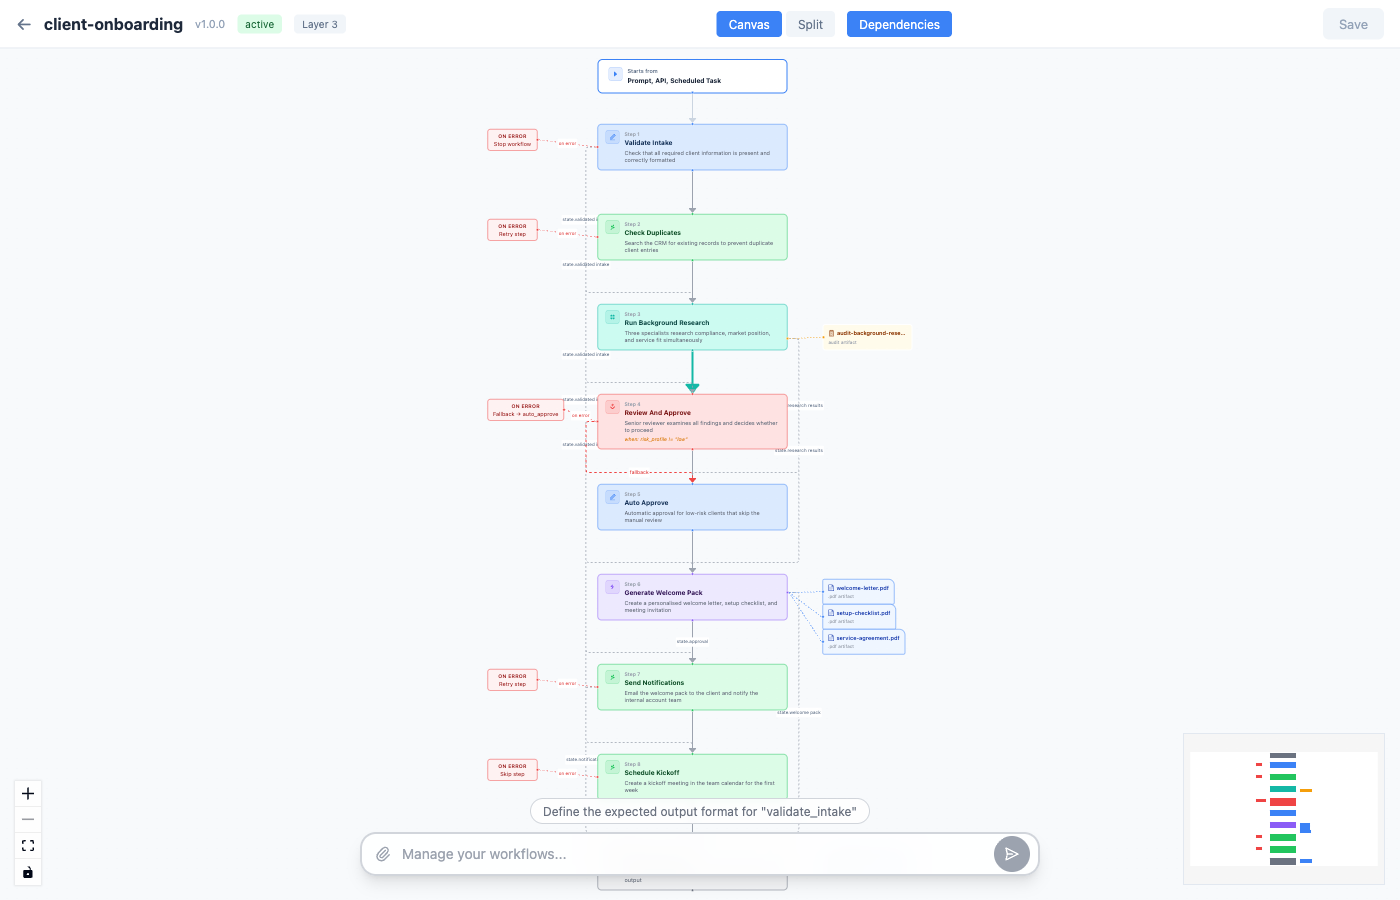
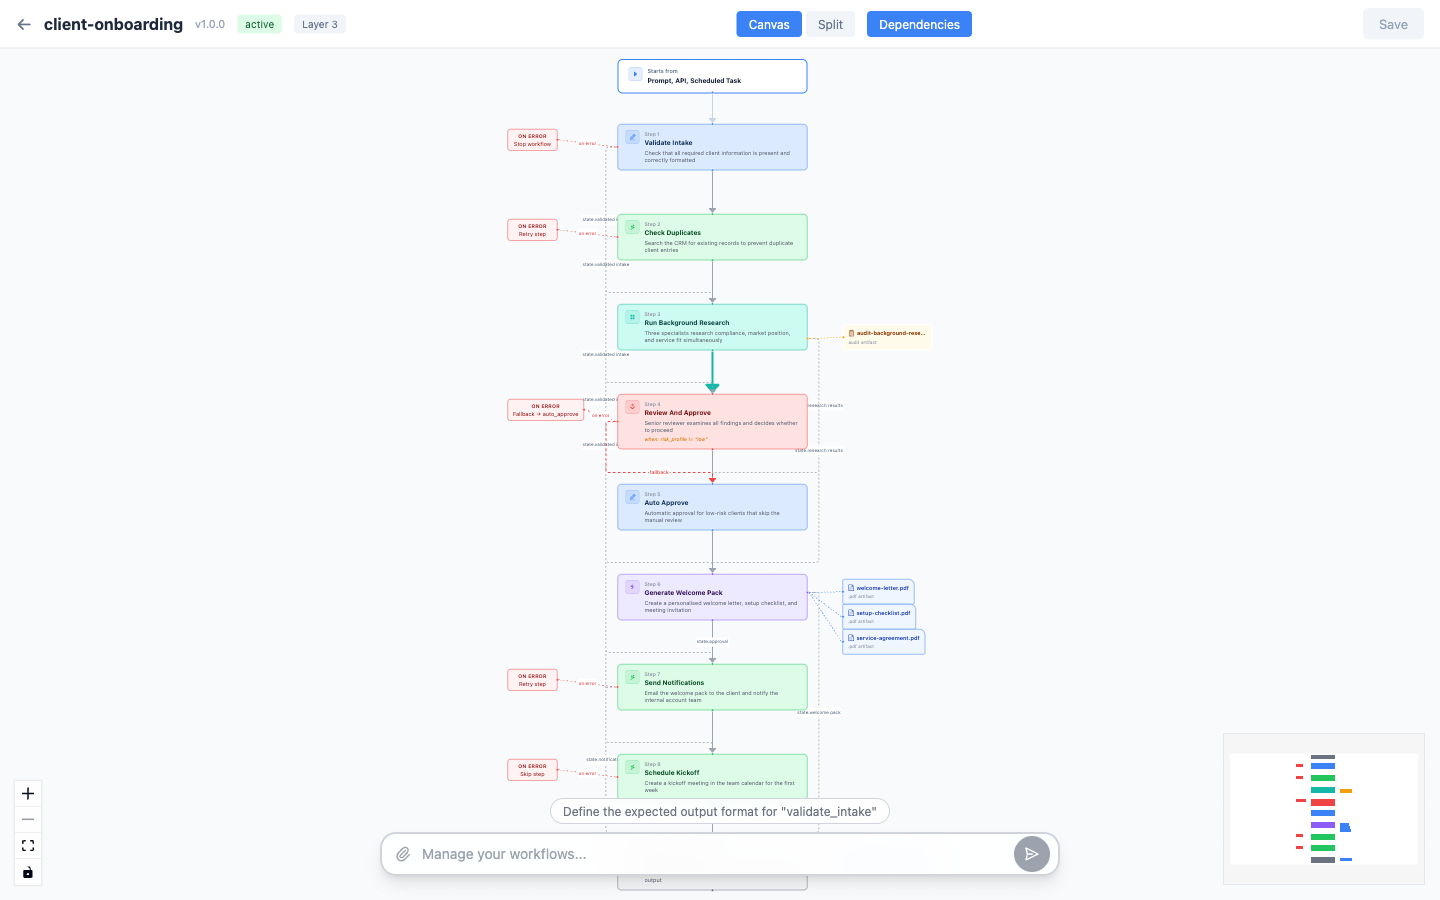
docs: refresh all screenshots and restructure README as business-first UI guide
Update all 17 screenshots from current Sasha Studio build. Restructure
README to lead with the visual editor guide — canvas, inspectors,
dependencies, split view, chat bar — before the specification details.

diff --git a/README.md b/README.md
@@ -1,16 +1,16 @@
 # Agent Flow
 
-**A layered specification for agentic AI workflows.**
+**Design AI workflows visually. Edit them conversationally. Run them with enterprise controls.**
 
-Structure tames LLM non-determinism. Agent Flow defines *what* happens, *when* it proceeds, and *who* does the work — while leaving the LLM free to reason creatively within each step's boundaries.
+Agent Flow is a layered specification for agentic AI workflows. It defines *what* happens, *when* it proceeds, and *who* does the work — while leaving the AI free to reason creatively within each step's boundaries.
 
-## The Problem
+The visual editor in [Sasha Studio](https://github.com/context-is-everything/sasha-ai-knowledge-management) makes the full specification accessible to anyone. Read a process as a graph, change it by typing a sentence.
 
-LLMs are non-deterministic by nature — the same prompt can produce different outputs every time. This is their strength (creativity, reasoning, adaptation) and their weakness (unpredictability, inconsistency, hallucination).
+![Visual workflow editor — full client-onboarding workflow with 9 steps, artifacts, and error handlers](docs/screenshots/workflow-editor-canvas.png)
 
-Current approaches either ignore this or try to force determinism, losing what makes LLMs valuable.
+## Why Agent Flow
 
-## The Solution
+LLMs are non-deterministic — the same prompt can produce different outputs every time. This is their strength (creativity, reasoning, adaptation) and their weakness (unpredictability, inconsistency, hallucination).
 
 Agent Flow applies **structural guardrails** around non-deterministic steps:
 
@@ -22,7 +22,7 @@ Agent Flow applies **structural guardrails** around non-deterministic steps:
 | **Agents** | Role, tools, output format | How the agent fulfills its role |
 | **Audit** | What gets logged, reason codes | — (fully deterministic) |
 
-## Design Principles
+### Design Principles
 
 1. **Business-friendly first** — A product manager can read and modify a workflow without engineering help
 2. **Markdown-native** — Plain text files, version-controlled, diffable, no special tooling required
@@ -31,7 +31,136 @@ Agent Flow applies **structural guardrails** around non-deterministic steps:
 5. **Observable by default** — Every run produces a verifiable audit trail
 6. **Backward compatible** — Every valid skill file is a valid Agent Flow workflow (single-step)
 
-## Layers
+---
+
+## Visual Editor Guide
+
+The workflow editor in Sasha Studio provides two first-class interaction modes: a **visual canvas** for reading and understanding workflows as directed graphs, and a **chat bar** for modifying anything by describing what you want in plain English.
+
+Every screenshot below shows the `client-onboarding` example — a full Layer 3 workflow with 9 steps, 4 agents, parallel bundles, approval gates, output files, audit artifacts, and error handling.
+
+### Managing Workflows
+
+The workflow manager lists all Agent Flow files at a glance. Each card shows the layer badge, active/draft status, and trigger types (Manual, API, Schedule). Click **Edit** to open the visual editor.
+
+Workflows are plain markdown files — what you see here maps directly to frontmatter fields in the spec.
+
+![Workflow Manager — four workflows showing layer badges, status, and trigger types](docs/screenshots/workflow-manager.png)
+
+### Creating from Templates
+
+New workflows start from one of three templates matching the recommended patterns. Each template generates a complete Agent Flow file with frontmatter, steps, agents, and observability — ready to customize.
+
+- **Simple Pipeline (Layer 1)** — Sequential steps: validate, process, output
+- **Agentic Workflow (Layer 2)** — Specialist agents with a quality review gate
+- **Parallel Fan-out (Layer 2)** — Split work across multiple agents, merge results, confirm
+
+![Template picker — Simple Pipeline, Agentic Workflow, and Parallel Fan-out](docs/screenshots/workflow-templates.png)
+
+### Canvas View
+
+The canvas renders each `step` block as a node in a directed graph. Nodes are connected by edges showing execution order, and the layout reads top-to-bottom like a flowchart.
+
+The full `client-onboarding` workflow is shown below — 9 steps from intake validation through to final onboarding summary, with artifact nodes branching right, error handlers branching left, and an audit trail node for the parallel research step.
+
+#### Node Types
+
+Every spec concept has a distinct visual representation:
+
+| Node | Represents | Spec field |
+|------|-----------|------------|
+| ![Trigger](docs/screenshots/node-trigger.png) | How the workflow starts | `triggers:` frontmatter |
+| ![Bundle step](docs/screenshots/node-bundle.png) | Parallel subagent execution | `type: subagent_bundle` |
+| ![Gate step](docs/screenshots/node-gate.png) | Approval checkpoint with conditions | `type: gate` + `when:` |
+| ![Skill step](docs/screenshots/node-skill.png) | AI specialist delegation | `type: skill` |
+| ![Artifact](docs/screenshots/node-artifact.png) | Output file produced by a step | `output_files:` |
+| ![Audit artifact](docs/screenshots/node-audit.png) | JSON audit trail | `audit_output:` |
+| ![Error handler](docs/screenshots/node-error.png) | Error handling path | `on_error:` |
+
+Nodes are color-coded by step type: blue for `transform`, green for `tool`, teal for `subagent_bundle`, coral for `gate`, indigo for `skill`, and dark gray for `end`. Artifact nodes branch off to the right of their source step, and error handlers branch to the left with dashed red connectors.
+
+### Step Inspector
+
+Click any step node to open the property inspector. Every field from the spec's step definition is editable — type, description, reads/writes, output files, audit output, error handling, run conditions, agent assignment, expected output, and reason codes.
+
+Each field includes a **chat hint** — a clickable suggestion that populates the chat bar with a natural language instruction. This bridges the visual editor and conversational editing: see a field, click the hint, and the AI makes the change for you.
+
+![Step inspector — editing generate_welcome_pack with all spec fields visible](docs/screenshots/step-inspector.png)
+
+<details>
+<summary>Inspector panel detail</summary>
+
+![Step inspector panel — Skill step with inputs, outputs, files, rules, AI behaviour, and tracking](docs/screenshots/step-inspector-panel.png)
+
+The inspector is organized into sections that mirror the spec structure:
+- **Basics** — Step name, type, description
+- **Inputs & Outputs** — `reads`, `writes`, `output_files`, `audit_output`
+- **Rules** — `when` condition, `on_error` handling, `fallback`, `retry`, `stop_condition`
+- **AI Behaviour** — `expected_output`, `agent`, `gate_method`, `tool`, `bundle`
+- **Tracking** — `reason_code`, `reason_code_on_fail`
+
+</details>
+
+### Artifact Inspector
+
+Click an artifact or audit node to inspect it. The artifact inspector shows the filename, source step, step type, and lists all output files from that step — with the selected file highlighted.
+
+![Artifact inspector — welcome-letter.pdf showing source step and sibling output files](docs/screenshots/artifact-inspector.png)
+
+### Audit Artifact Inspector
+
+Audit artifacts represent the `audit_output` field from the spec. Clicking one shows the JSON filename, the source step, and the step description — making it easy to trace which step produces which audit record.
+
+![Audit inspector — audit-background-research.json from the subagent_bundle step](docs/screenshots/audit-inspector.png)
+
+### Dependencies View
+
+Toggle the **Dependencies** button to overlay implicit data-flow edges derived from `reads`/`writes` declarations. These dashed lines show which steps depend on data produced by earlier steps — even when they aren't adjacent in the execution order. Fallback edges are shown as red dashed lines.
+
+This view answers "where does this data come from?" and "what breaks if I remove this step?" at a glance.
+
+![Dependencies view — implicit data-flow edges showing state.validated_intake flowing to multiple downstream steps](docs/screenshots/workflow-dependencies.png)
+
+### Split View — Canvas + Code Side by Side
+
+The split view shows the visual graph alongside the raw markdown. Every frontmatter field, step block, and agent definition from the spec is visible in the code pane.
+
+This is the view where a product manager reads what the workflow does (canvas) while an engineer tweaks the details (code). Edit either side — they stay in sync.
+
+![Split view — visual graph on the left, YAML/markdown definition on the right](docs/screenshots/workflow-editor-split.png)
+
+### Workflow Chat
+
+The floating chat bar at the bottom of the editor lets you modify workflows conversationally. Type natural language instructions and the AI updates the workflow markdown, which immediately re-renders on the canvas.
+
+The chat bar also **suggests edits** based on what's missing from your workflow — if there's no error handling, no quality gate, or steps without expected output definitions, it will prompt you with a clickable suggestion chip.
+
+![Workflow chat bar — contextual suggestions and natural language input](docs/screenshots/workflow-chat-bar.png)
+
+---
+
+## Edit Workflows with Natural Language
+
+Agent Flow files have enterprise-grade process controls under the hood — gates, audit trails, parallel orchestration, budgets, retry logic — but the editing experience is conversational. The same file that enforces compliance gates and audit logging can be modified by typing a sentence:
+
+| What you want | What you type |
+|---------------|---------------|
+| Add a quality check | *"Add a human review gate after the extraction step"* |
+| Handle failures gracefully | *"Add retry with 3 attempts and exponential backoff to the API call"* |
+| Run on a schedule | *"Schedule this to run every Monday at 6am Eastern"* |
+| Split work across specialists | *"Fan out the analysis to financial, legal, and technical reviewers in parallel"* |
+| Set resource limits | *"Add a budget of 50k tokens and a 5 minute deadline"* |
+| Track outcomes | *"Add reason codes: REPORT_APPROVED on success, REPORT_REJECTED on failure"* |
+| Make steps conditional | *"Only run the enrichment step when the risk score is high"* |
+| Add audit logging | *"Enable full audit logging with PII redaction"* |
+| Define what the AI produces | *"Set the expected output to a JSON object with summary, risk_score, and recommendations"* |
+| Create output documents | *"Have this step produce a PDF report and a markdown summary"* |
+
+---
+
+## The Specification
+
+### Layers
 
 Agent Flow is a **strict superset** of the [Agent Skills Spec](https://github.com/anthropics/agent-skills-spec). Complexity is opt-in:
 
@@ -42,7 +171,7 @@ Agent Flow is a **strict superset** of the [Agent Skills Spec](https://github.co
 | **2 — Graph** | Builders | Conditions, parallel bundles, branching. DAG execution. |
 | **3 — Long-running** | Platform teams | Checkpoints, waitpoints, signals. Resumable workflows. |
 
-## Quick Example
+### Quick Example
 
 ```yaml
 ---
@@ -111,31 +240,7 @@ Two concepts, not three: **Workflow** (the file) and **Execution** (a run). No s
 
 See the [full specification](SPEC.md) for complete details, step types, agent definitions, bundle configuration, and more.
 
-## Edit Workflows with Natural Language
-
-Agent Flow files have enterprise-grade process controls under the hood — gates, audit trails, parallel orchestration, budgets, retry logic — but the editing experience is conversational. The workflow editor in Sasha Studio provides two first-class interaction modes:
-
-- **Visual canvas** — read and understand the workflow as a directed graph
-- **Chat bar** — modify anything by describing what you want in plain English
-
-The same file that enforces compliance gates and audit logging can be modified by typing a sentence. Examples:
-
-| What you want | What you type |
-|---------------|---------------|
-| Add a quality check | *"Add a human review gate after the extraction step"* |
-| Handle failures gracefully | *"Add retry with 3 attempts and exponential backoff to the API call"* |
-| Run on a schedule | *"Schedule this to run every Monday at 6am Eastern"* |
-| Split work across specialists | *"Fan out the analysis to financial, legal, and technical reviewers in parallel"* |
-| Set resource limits | *"Add a budget of 50k tokens and a 5 minute deadline"* |
-| Track outcomes | *"Add reason codes: REPORT_APPROVED on success, REPORT_REJECTED on failure"* |
-| Make steps conditional | *"Only run the enrichment step when the risk score is high"* |
-| Add audit logging | *"Enable full audit logging with PII redaction"* |
-| Define what the AI produces | *"Set the expected output to a JSON object with summary, risk_score, and recommendations"* |
-| Create output documents | *"Have this step produce a PDF report and a markdown summary"* |
-
-The chat bar also suggests edits based on what's missing from your workflow — if there's no error handling, no quality gate, or steps without expected output definitions, it will prompt you.
-
-## Recommended Patterns
+### Recommended Patterns
 
 | Pattern | Structure | Use Case |
 |---------|-----------|----------|
@@ -145,99 +250,7 @@ The chat bar also suggests edits based on what's missing from your workflow — 
 
 See the [examples/](examples/) directory for complete implementations of each pattern.
 
-## Agent Flow in Practice
-
-Agent Flow isn't just a spec on paper — it has a working visual editor in [Sasha Studio](https://github.com/context-is-everything/sasha-ai-knowledge-management). The screenshots below show the `client-onboarding` example — a full Layer 3 workflow with 9 steps, 4 agents, parallel bundles, approval gates, output files, audit artifacts, and error handling.
-
-### Managing Workflows
-
-The workflow manager lists all Agent Flow files with their metadata at a glance: layer badge, active/draft status, trigger types (Manual, API, Schedule), and one-click editing. Workflows are plain markdown files — what you see here maps directly to frontmatter fields in the spec.
-
-![Workflow Manager — four workflows showing layer badges, status, and trigger types](docs/screenshots/workflow-manager.png)
-
-### Creating from Templates
-
-New workflows start from one of three templates matching the recommended patterns. Each template generates a complete Agent Flow file with frontmatter, steps, agents, and observability — ready to customize.
-
-- **Simple Pipeline (Layer 1)** — Sequential steps: validate, process, output
-- **Agentic Workflow (Layer 2)** — Specialist agents with a quality review gate
-- **Parallel Fan-out (Layer 2)** — Split work across multiple agents, merge results, confirm
-
-![Template picker — Simple Pipeline, Agentic Workflow, and Parallel Fan-out](docs/screenshots/workflow-templates.png)
-
-### Visual Workflow Editor — Canvas View
-
-The canvas renders each `step` block as a node in a directed graph. The full `client-onboarding` workflow is shown here — 9 steps from intake validation through to final onboarding summary.
-
-![Visual workflow editor — full client-onboarding workflow with 9 steps, artifacts, and error handlers](docs/screenshots/workflow-editor-canvas.png)
-
-#### Node Types
-
-Every spec concept has a visual representation on the canvas:
-
-| Node | Represents | Spec field |
-|------|-----------|------------|
-| ![Trigger](docs/screenshots/node-trigger.png) | How the workflow starts | `triggers:` frontmatter |
-| ![Bundle step](docs/screenshots/node-bundle.png) | Parallel subagent execution | `type: subagent_bundle` |
-| ![Gate step](docs/screenshots/node-gate.png) | Approval checkpoint with conditions | `type: gate` + `when:` |
-| ![Skill step](docs/screenshots/node-skill.png) | AI specialist delegation | `type: skill` |
-| ![Artifact](docs/screenshots/node-artifact.png) | Output file produced by a step | `output_files:` |
-| ![Audit artifact](docs/screenshots/node-audit.png) | JSON audit trail | `audit_output:` |
-| ![Error handler](docs/screenshots/node-error.png) | Error handling path | `on_error:` |
-
-Nodes are color-coded by step type: blue for `transform`, green for `tool`, teal for `subagent_bundle`, coral for `gate`, indigo for `skill`, and dark gray for `end`. Artifact nodes branch off to the right of their source step, and error handlers branch to the left with dashed red connectors.
-
-### Step Inspector
-
-Click any step node to open the property inspector. Every field from the spec's step definition is editable: type, description, reads/writes, output files, audit output, error handling, run conditions, agent assignment, expected output, and reason codes.
-
-![Step inspector — editing generate_welcome_pack with all spec fields visible](docs/screenshots/step-inspector.png)
-
-<details>
-<summary>Inspector panel detail</summary>
-
-![Step inspector panel — Skill step with inputs, outputs, files, rules, AI behaviour, and tracking](docs/screenshots/step-inspector-panel.png)
-
-The inspector is organized into sections that mirror the spec structure:
-- **Basics** — Step name, type, description
-- **Inputs & Outputs** — `reads`, `writes`, `output_files`, `audit_output`
-- **Rules** — `when` condition, `on_error` handling, `fallback`, `retry`, `stop_condition`
-- **AI Behaviour** — `expected_output`, `agent`, `gate_method`, `tool`, `bundle`
-- **Tracking** — `reason_code`, `reason_code_on_fail`
-
-</details>
-
-### Artifact Inspector
-
-Click an artifact or audit node to inspect it. The artifact inspector shows the filename, source step, step type, and lists all output files from that step — with the selected file highlighted.
-
-![Artifact inspector — welcome-letter.pdf showing source step and sibling output files](docs/screenshots/artifact-inspector.png)
-
-### Audit Artifact Inspector
-
-Audit artifacts represent the `audit_output` field from the spec. Clicking one shows the JSON filename, the source step, and the step description.
-
-![Audit inspector — audit-background-research.json from the subagent_bundle step](docs/screenshots/audit-inspector.png)
-
-### Dependencies View
-
-Toggle the Dependencies button to overlay implicit data-flow edges derived from `reads`/`writes` declarations. These dashed lines show which steps depend on data produced by earlier steps — even when they aren't adjacent in the execution order. Fallback edges are shown as red dashed lines.
-
-![Dependencies view — implicit data-flow edges showing state.validated_intake flowing to multiple downstream steps](docs/screenshots/workflow-dependencies.png)
-
-### Split View — Canvas + Code Side by Side
-
-The split view shows the visual graph alongside the raw markdown. Every frontmatter field, step block, and agent definition from the spec is visible in the code pane. Edit either side — they stay in sync.
-
-This is the view a product manager uses to understand what the workflow does (canvas) while an engineer tweaks the details (code).
-
-![Split view — visual graph on the left, YAML/markdown definition on the right](docs/screenshots/workflow-editor-split.png)
-
-### Workflow Chat
-
-The floating chat bar at the bottom of the editor lets you modify workflows conversationally. Type natural language instructions (e.g. "add a retry to the send_notifications step") and the AI updates the workflow markdown, which immediately re-renders on the canvas.
-
-![Workflow chat bar — contextual suggestions and natural language input](docs/screenshots/workflow-chat-bar.png)
+---
 
 ## Standards We Build On
 
